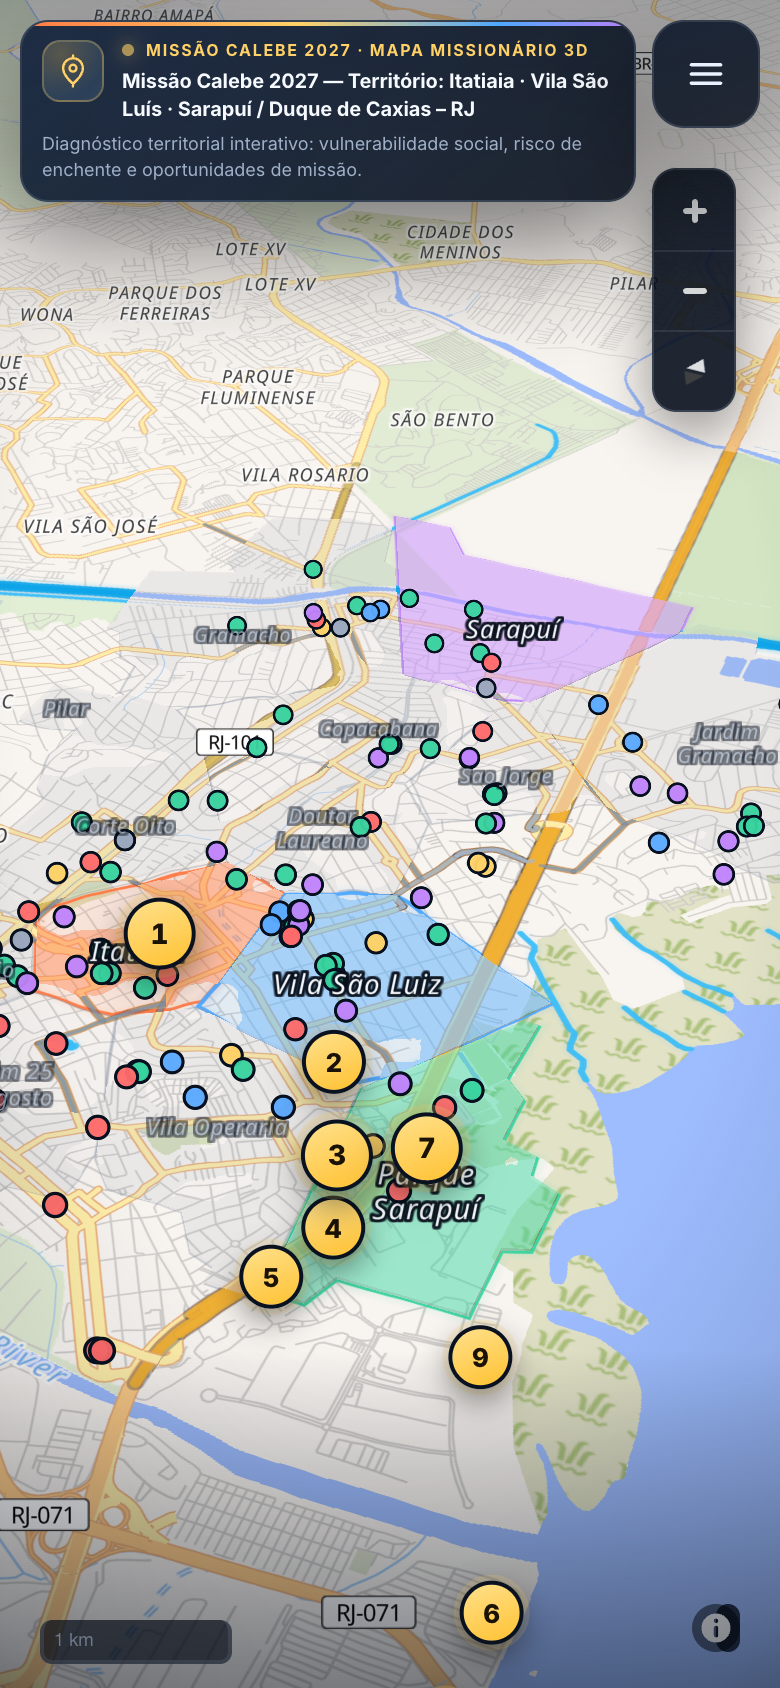
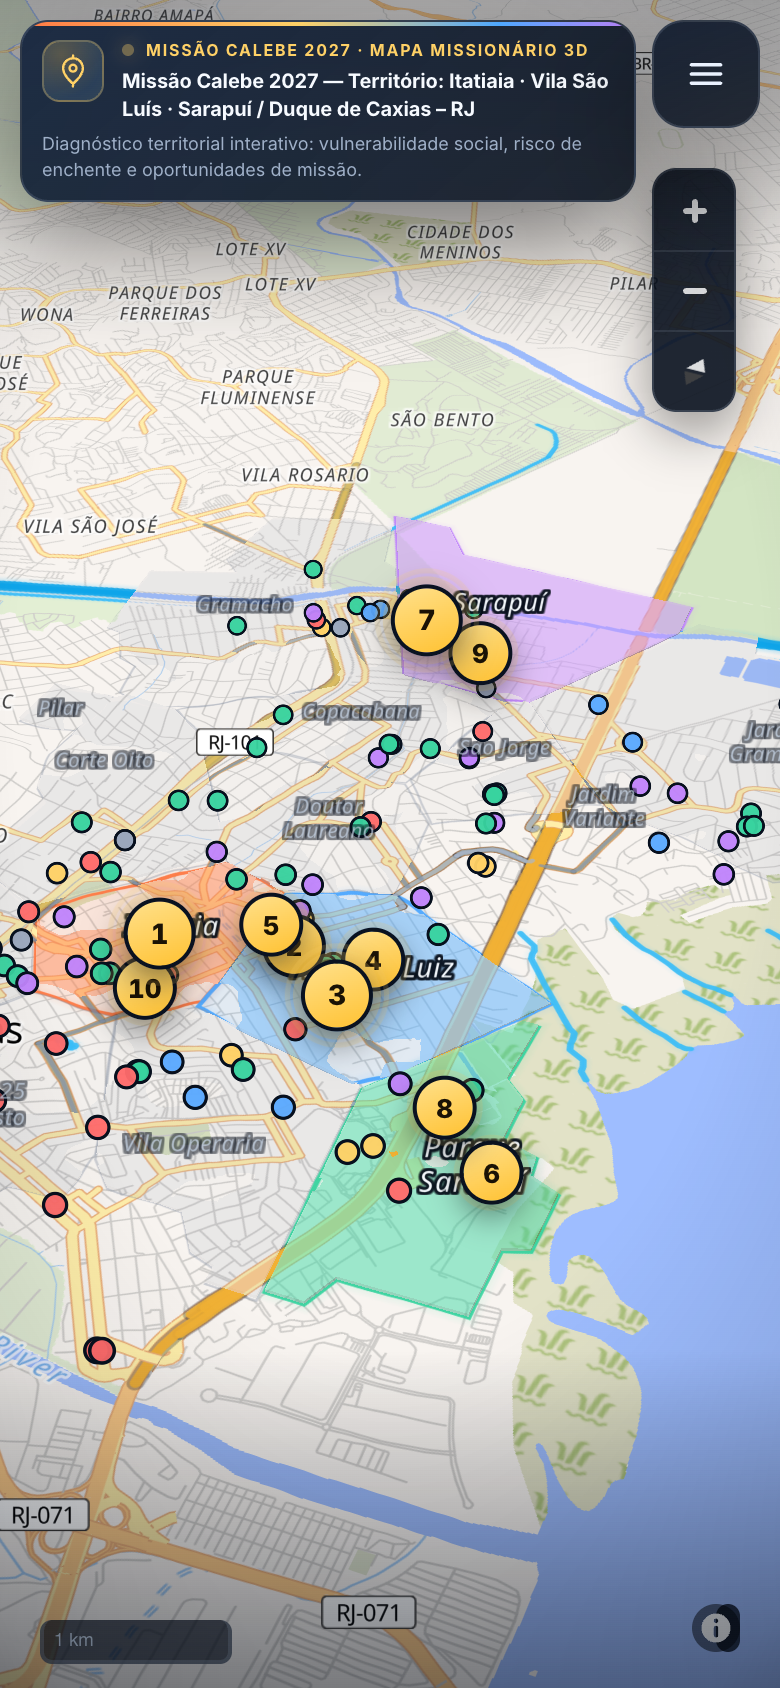
Final map: label anchors, 3D buildings from z12.8, evidence-based opportunity texts

diff --git a/index.html b/index.html
@@ -183,7 +183,7 @@ a{color:var(--accent-2)}
 .poi-pop__tags{display:flex;flex-wrap:wrap;gap:4px;margin-top:8px}
 .poi-tag{font-size:9px;padding:3px 7px;border-radius:999px;background:rgba(78,168,255,.12);border:1px solid rgba(78,168,255,.24);color:#bcdcff}
 /* ---------- opportunity pins ---------- */
-.op-pin{position:relative;width:44px;height:44px;opacity:1!important;border:0;background:transparent;padding:0;display:grid;place-items:center;cursor:pointer;color:#1a1205;touch-action:manipulation;-webkit-tap-highlight-color:transparent}
+.op-pin{position:absolute;top:0;left:0;width:44px;height:44px;opacity:1!important;border:0;background:transparent;padding:0;display:grid;place-items:center;cursor:pointer;color:#1a1205;touch-action:manipulation;-webkit-tap-highlight-color:transparent}
 .op-pin__num{
   position:relative;z-index:2;width:32px;height:32px;border-radius:50%;
   background:linear-gradient(160deg,#ffe08a,#ffc233);border:2px solid #0a1220;
@@ -1233,6 +1233,36 @@ a{color:var(--accent-2)}
     if (!DATA.bairros || !DATA.pois) { throw new Error('dados territoriais ausentes'); }
     if (!map.getSource('mc-bairros')) { map.addSource('mc-bairros', { type: 'geojson', data: DATA.bairros }); }
     if (!map.getSource('mc-pois')) { map.addSource('mc-pois', { type: 'geojson', data: poiFC() }); }
+    if (!map.getSource('mc-bairro-label-points')) {
+      var labelFeatures = [];
+      (DATA.bairros.features || []).forEach(function (feature) {
+        var geometry = feature.geometry;
+        var ring = geometry && geometry.type === 'Polygon' ? geometry.coordinates[0] : null;
+        if (!ring || !ring.length) { return; }
+        var sumLon = 0;
+        var sumLat = 0;
+        var count = 0;
+        ring.forEach(function (position) {
+          if (Array.isArray(position) && typeof position[0] === 'number') {
+            sumLon += position[0];
+            sumLat += position[1];
+            count += 1;
+          }
+        });
+        if (!count) { return; }
+        var props = feature.properties || {};
+        var hasAnchor = typeof props.label_lon === 'number' && typeof props.label_lat === 'number';
+        labelFeatures.push({
+          type: 'Feature',
+          properties: { nome: props.nome, tipo: props.tipo },
+          geometry: { type: 'Point', coordinates: hasAnchor ? [props.label_lon, props.label_lat] : [sumLon / count, sumLat / count] }
+        });
+      });
+      map.addSource('mc-bairro-label-points', {
+        type: 'geojson',
+        data: { type: 'FeatureCollection', features: labelFeatures }
+      });
+    }
     if (!map.getSource('mc-streets')) {
       map.addSource('mc-streets', { type: 'geojson', data: lineFC(DATA.streets, function (s) { return { nome: s.nome, classe: s.classe }; }) });
     }
@@ -1300,7 +1330,7 @@ a{color:var(--accent-2)}
         type: 'fill-extrusion',
         source: 'openmaptiles',
         'source-layer': 'building',
-        minzoom: 14,
+        minzoom: 12.8,
         paint: {
           'fill-extrusion-color': ['interpolate', ['linear'],
             ['coalesce', ['get', 'render_height'], ['get', 'height'], 8],
@@ -1449,7 +1479,7 @@ a{color:var(--accent-2)}
     map.addLayer({
       id: 'mc-bairro-label',
       type: 'symbol',
-      source: 'mc-bairros',
+      source: 'mc-bairro-label-points',
       minzoom: 10.4,
       layout: {
         'text-field': ['get', 'nome'],
@@ -1757,6 +1787,9 @@ a{color:var(--accent-2)}
   }
 
   /* ---------------- opportunity markers ---------------- */
+  /* Pins 2, 3 and 4 are less than ~90 m apart in the source coordinates; a small
+     pixel offset keeps all three clickable at territory-overview zoom. */
+  var OP_MARKER_OFFSETS = { 2: [-20, -14], 3: [0, 8], 4: [20, -2] };
   function buildOpMarkers(map) {
     state.opMarkers.forEach(function (marker) {
       try { marker.remove(); } catch (err) { /* ignore */ }
@@ -1787,6 +1820,7 @@ a{color:var(--accent-2)}
       var marker = new maplibregl.Marker({
         element: el,
         anchor: 'center',
+        offset: OP_MARKER_OFFSETS[op.num] || [0, 0],
         opacity: 1,
         opacityWhenCovered: 1
       }).setLngLat([op.lon, op.lat]);
